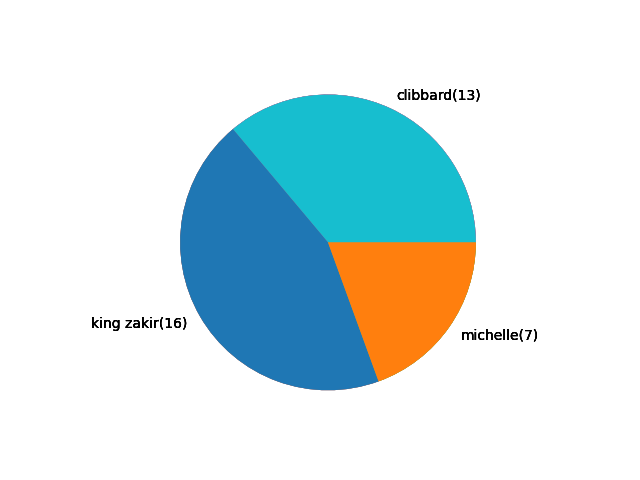
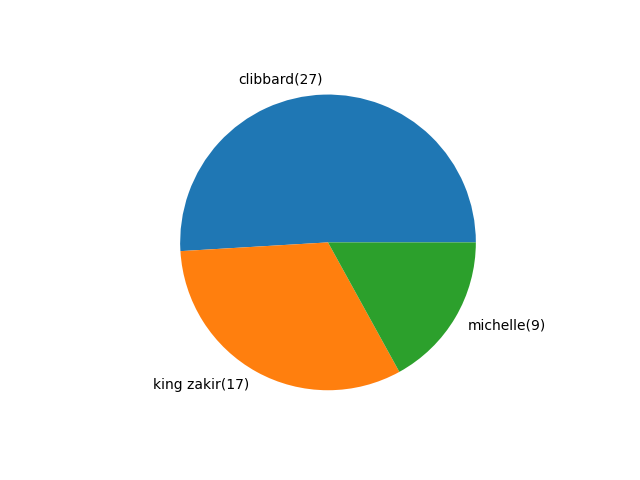
fixed results page

Changed region(s): [[0.125, 0.1562, 0.8438, 0.8125]]

diff --git a/awards/views.py b/awards/views.py
@@ -6,6 +6,8 @@ from django.urls import reverse
 import matplotlib.pyplot as plt
 import numpy as np
 import os
+from . import static
+from django.templatetags.static import static
 # Create your views here.
 
 def awards(request):
@@ -46,18 +48,30 @@ def vote(request, award_id):
 def results(request, award_id):
     award = get_object_or_404(Award, pk=award_id)
     OptionListing = list(award.options_set.all())
-    try:
-        os.remove('midyearsotbawards/staticfiles/awards/img/graphs/my_plot.png')
-    except FileNotFoundError:
-        votes=[]
-        mylabels = []
-        for option in OptionListing:
-            votes+=[option.votes]
-            mylabels+=["{0}({1})".format(option, option.votes)]
-        z = np.array(votes)
-        plt.pie(z, labels = mylabels)
-        midyearsotbawards/staticfiles
-        plt.savefig('midyearsotbawards/staticfiles/awards/img/graphs/my_plot.png') 
+    print(static('awards/img/graphs/my_plot.png'))
+    print("hello")
+    # try:
+    #     print(static('awards/img/graphs/my_plot.png'))
+    #     midyearsotbawards/awards/static
+    #     os.remove(".{0}".format(static('awards/img/graphs/my_plot.png')))
+    # except FileNotFoundError:
+    #     votes=[]
+    #     mylabels = []
+    #     for option in OptionListing:
+    #         votes+=[option.votes]
+    #         mylabels+=["{0}({1})".format(option, option.votes)]
+    #     z = np.array(votes)
+    #     plt.pie(z, labels = mylabels)
+    #     plt.savefig(static('awards/img/graphs/my_plot.png'))
+
+    votes=[]
+    mylabels = []
+    for option in OptionListing:
+        votes+=[option.votes]
+        mylabels+=["{0}({1})".format(option, option.votes)]
+    z = np.array(votes)
+    plt.pie(z, labels = mylabels)
+    plt.savefig('awards/static/awards/img/graphs/my_plot.png')
     return render(request, 'awards/results.html', {'awards': Award, 'OptionListing': OptionListing})
 
         
